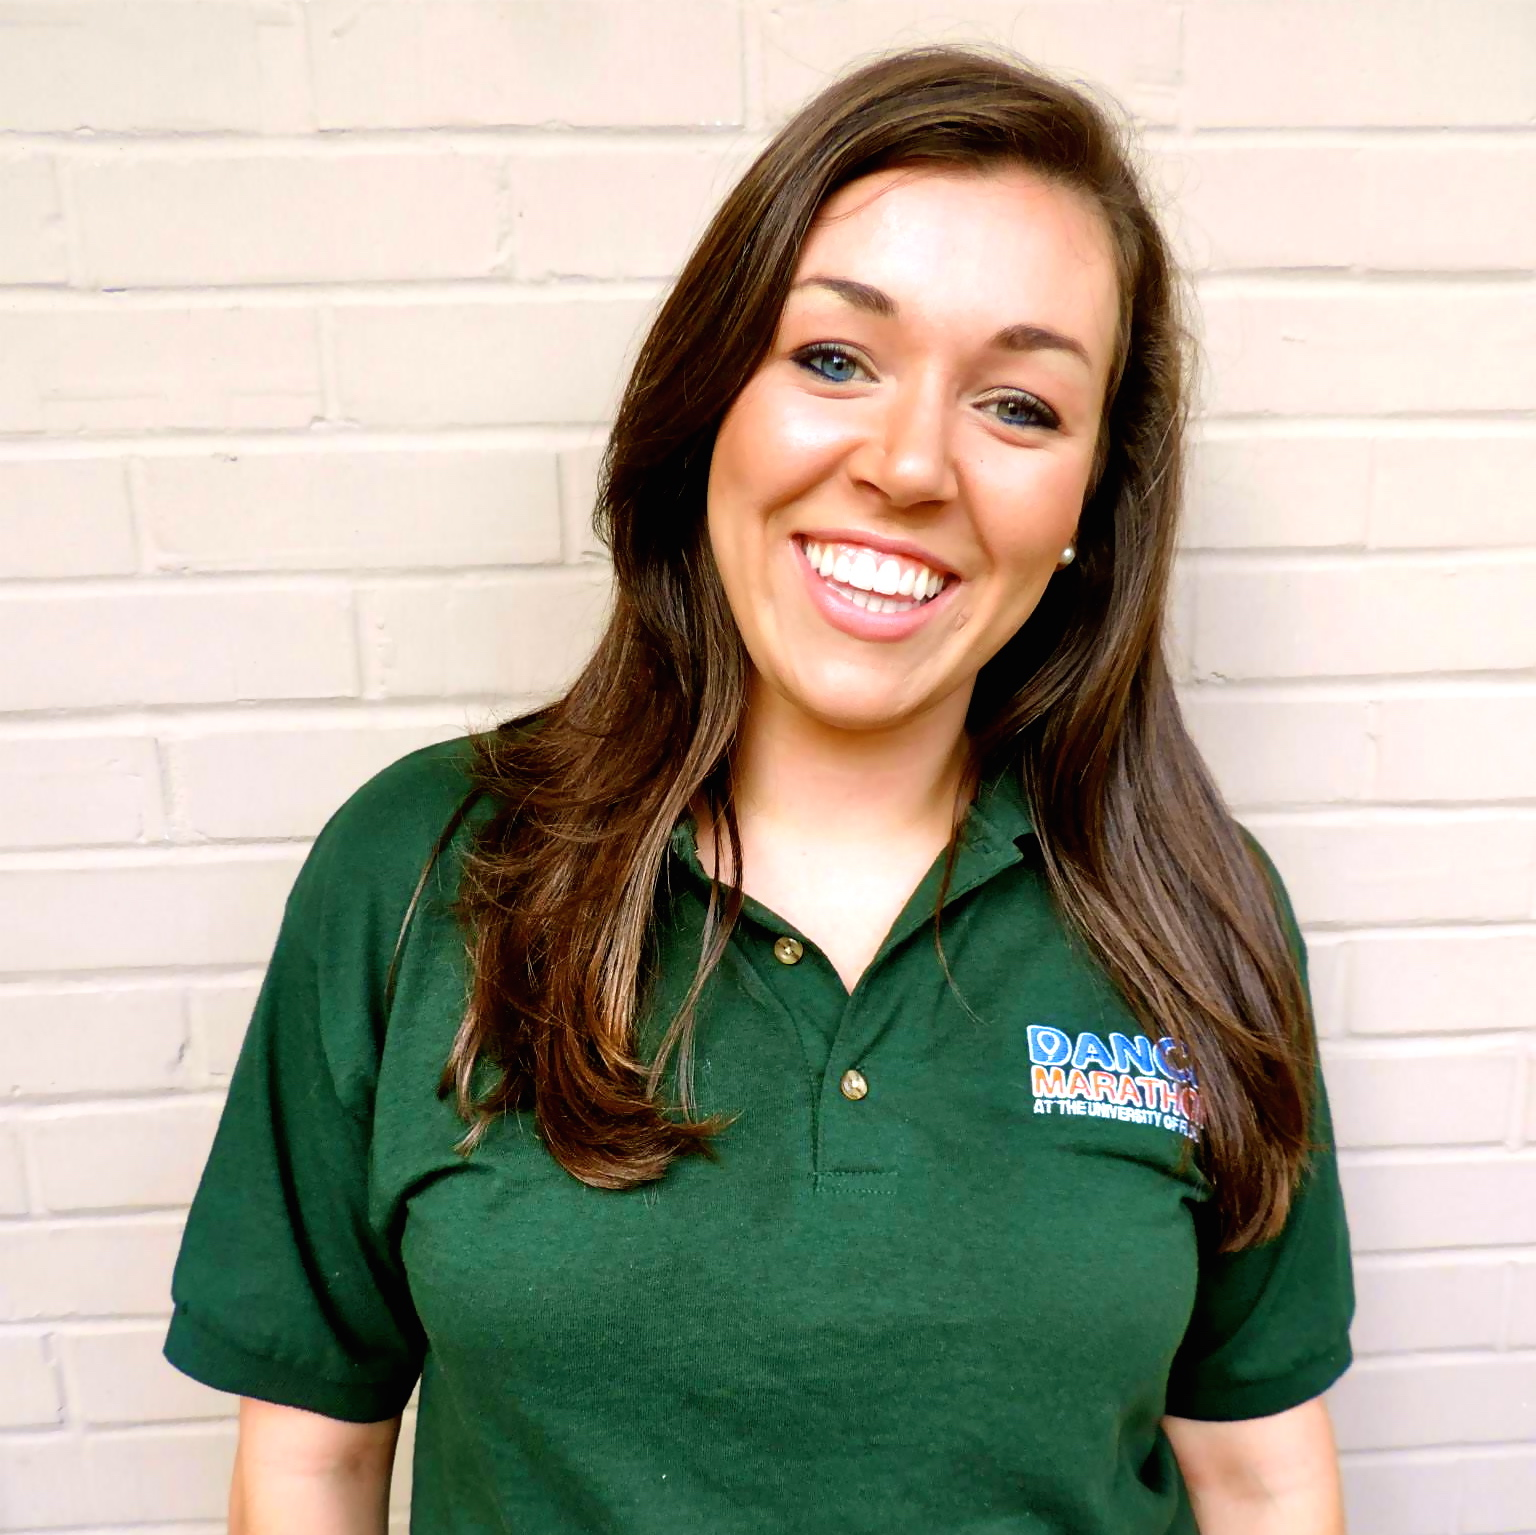
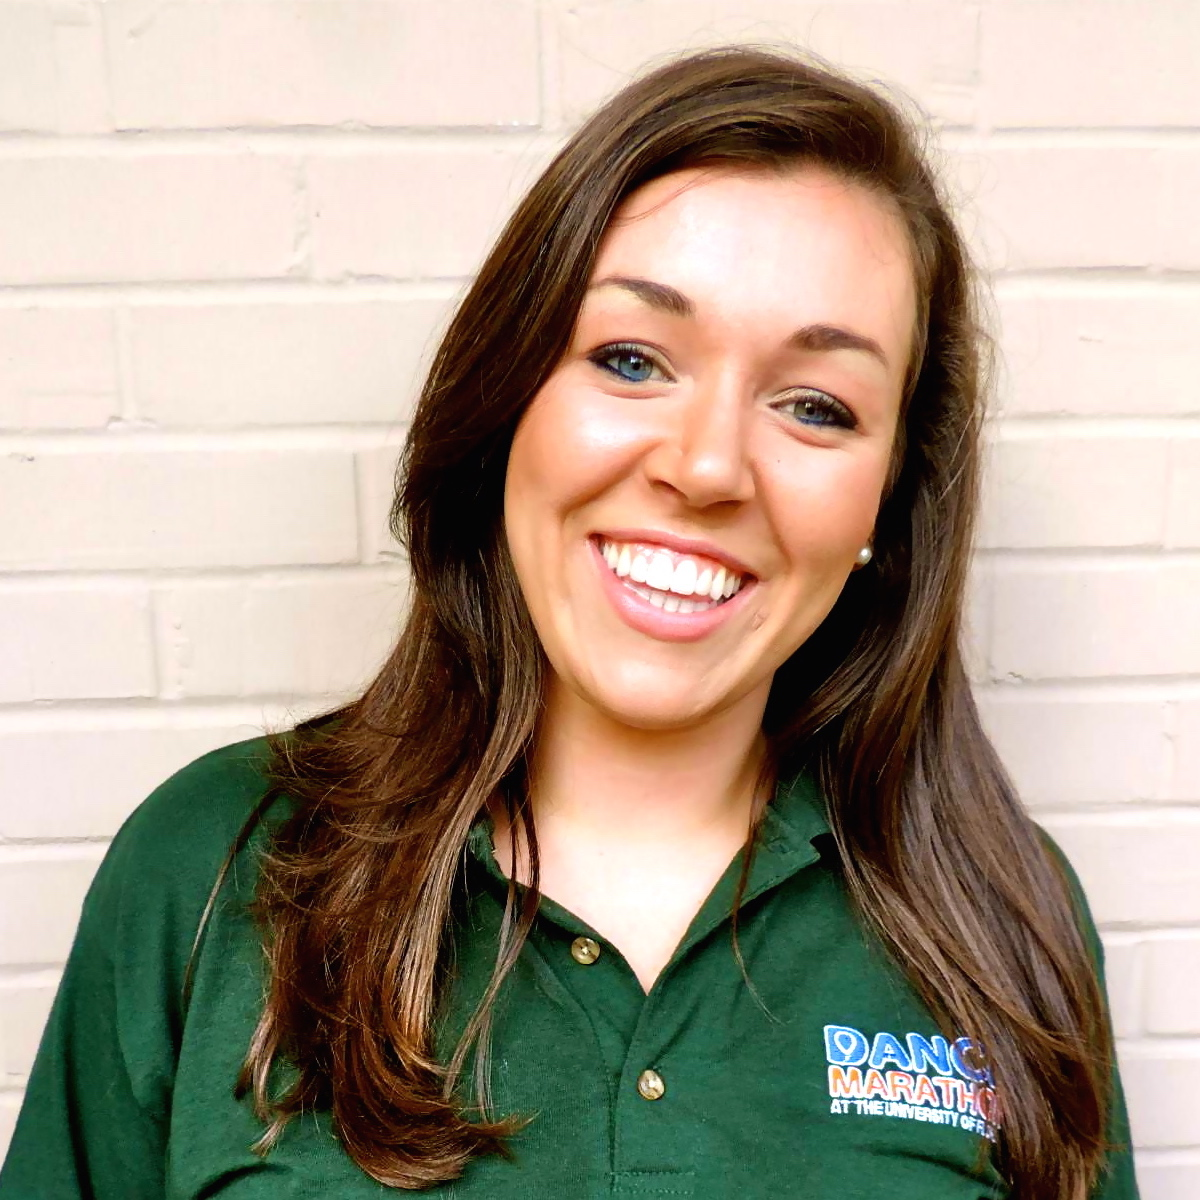
Updated meet the overalls and the footer
Added Arielle to Overalls, edited Torrie’s pic

Made the footer text lowercase

diff --git a/meet-the-overalls.php b/meet-the-overalls.php
@@ -205,16 +205,16 @@
       'name'                  =>  'Arielle Darvin',
       'position'              =>  'Morale Overall ',
       'email'                 =>  'adarvin@floridadm.org',
-      'previous_involvement'  =>  'Morale Captain',
-      'major'                 =>  '',
+      'previous_involvement'  =>  'Dancer, Two-year Morale Captain',
+      'major'                 =>  'Communication Sciences and Disorders',
       'minor'                 =>  '',
-      'hometown'              =>  '',
-      'outside_involvement'   =>  '',
-      'free_time'             =>  '',
-      'fun_fact'              =>  '',
-      'favorite_memory'       =>  '<p></p>',
-      'motivation'            =>  '<p></p>',
-      'image'                 =>  'Replacement'
+      'hometown'              =>  'Melbourne, FL',
+      'outside_involvement'   =>  'Camp Boggy Creek, Speech and Hearing Department Research Assistant, Danza Dance Company, Alpha Epsilon Phi Sorority',
+      'free_time'             =>  'I love to dance, be silly with my friends, and laugh a lot. Oh, and I really like to eat.',
+      'fun_fact'              =>  'I played the Velveeta cheese in my 3rd grade Chorus Musical called “The Cheese Stands Alone” (Another fun fact: I am a terrible singer!)',
+      'favorite_memory'       =>  '<p>My favorite DM memory is watching everybody do last year’s linedance from start to finish for the first time, after we finished teaching it. The energy and positivity that filled the O’Dome was truly magical!</p>',
+      'motivation'            =>  '<p>Last year, I attended a miracle child’s birthday party, where I played with Ayden for several hours. After endless trampoline jumping, running around the backyard, and Ayden’s fancy flipping, Ayden told me we were now best friends. I knew that I had been in the presence of a very special child – a child who inspired me to love more, to laugh more, and to appreciate life. We always say that Dance Marathon is “for the kids.” Our fundraising efforts make it possible for sick children at UF Health Shands to have access to top-notch medical equipment and for research to be conducted to find cures for pediatric illness. But, I really think that my love, passion, and motivation to be involved with this organization stems from the fact that Dance Marathon is not just “for the kids.” It is for us too – I am motivated by the positivity of the miracle children. I am captivated by the passion and determination of the DM captains and dancers who tirelessly fundraise. And, I am wholeheartedly motivated by the numbers we raised last year. I am certain that I talk about Dance Marathon too much, but I cannot help that my love and deep, unwavering passion for DM is apparent in everything I do.</p>',
+      'image'                 =>  'Arielle'
     ),
     array(
       'name'                  =>  'Brad Wheeler',

diff --git a/includes/foot.php b/includes/foot.php
@@ -3,7 +3,7 @@
 		  <div class="container">
         <div class="row text-center">
           <div class="col-md-12">
-            <p>A COPY OF THE OFFICIAL REGISTRATION AND FINANCIAL INFORMATION MAY BE OBTAINED FROM THE DIVISION OF CONSUMER SERVICES BY CALLING TOLL FREE 1-800-435-7352 WITHIN THE STATE. REGISTRATION DOES NOT IMPLY ENDORSEMENT, APPROVAL OR RECOMMENDATION BY THE STATE. IF YOU PREFER NOT TO BE CONTACTED FOR FUTURE FUNDRAISING ACTIVITIES, PLEASE NOTIFY US BY CALLING 1-866-682-2372 OR VISITING: <a href="http://giving.ufhealth.org/opt-out">http://giving.ufhealth.org/opt-out</a>
+            <p>A copy of the official registration and financial information may be obtained from the division of consumer services by calling toll free 1-800-435-7352 within the state. Registration does not imply endorsement, approval or recommendation by the state. If you prefer not to be contacted for future fundraising activities, please notify us by calling 1-866-682-2372 or visiting: <a href="http://giving.ufhealth.org/opt-out">http://giving.ufhealth.org/opt-out</a>
             </p>
 				  	<p>
 				  		<a href="http://www.health.ufl.edu/disclaimer.shtml">Disclaimer &amp; Permitted Use</a>&nbsp;&nbsp;|&nbsp;&nbsp;
